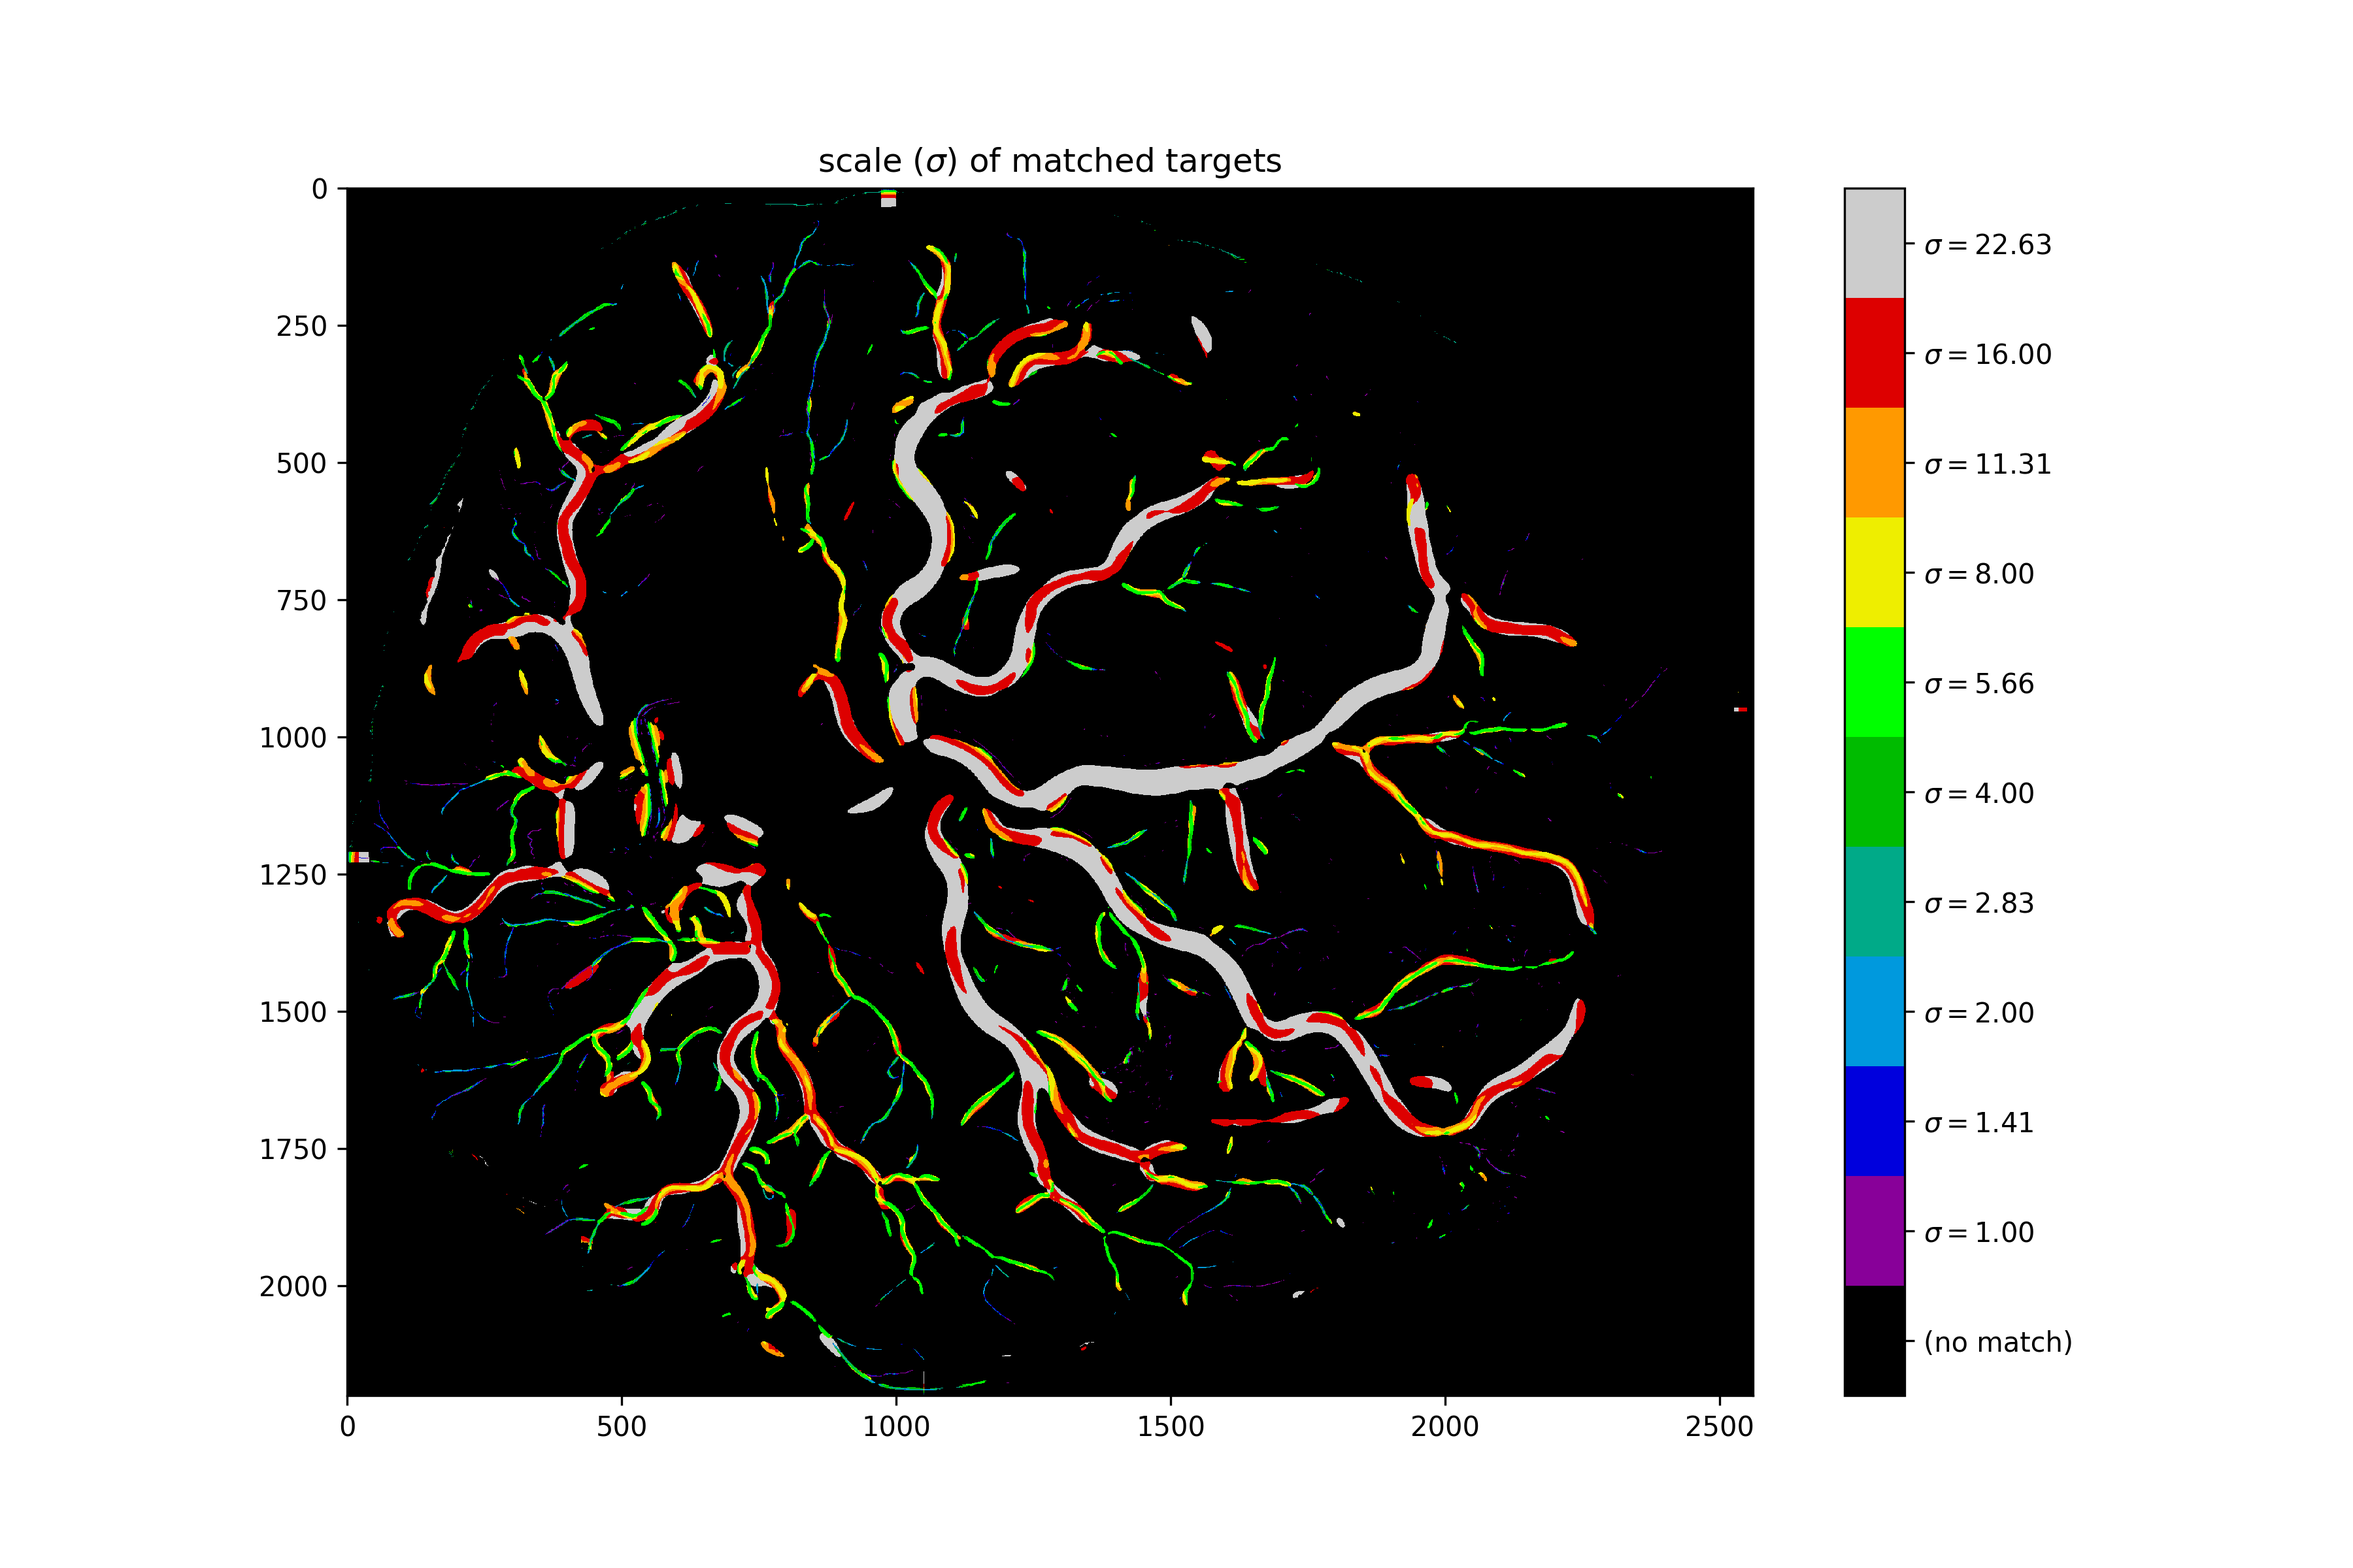
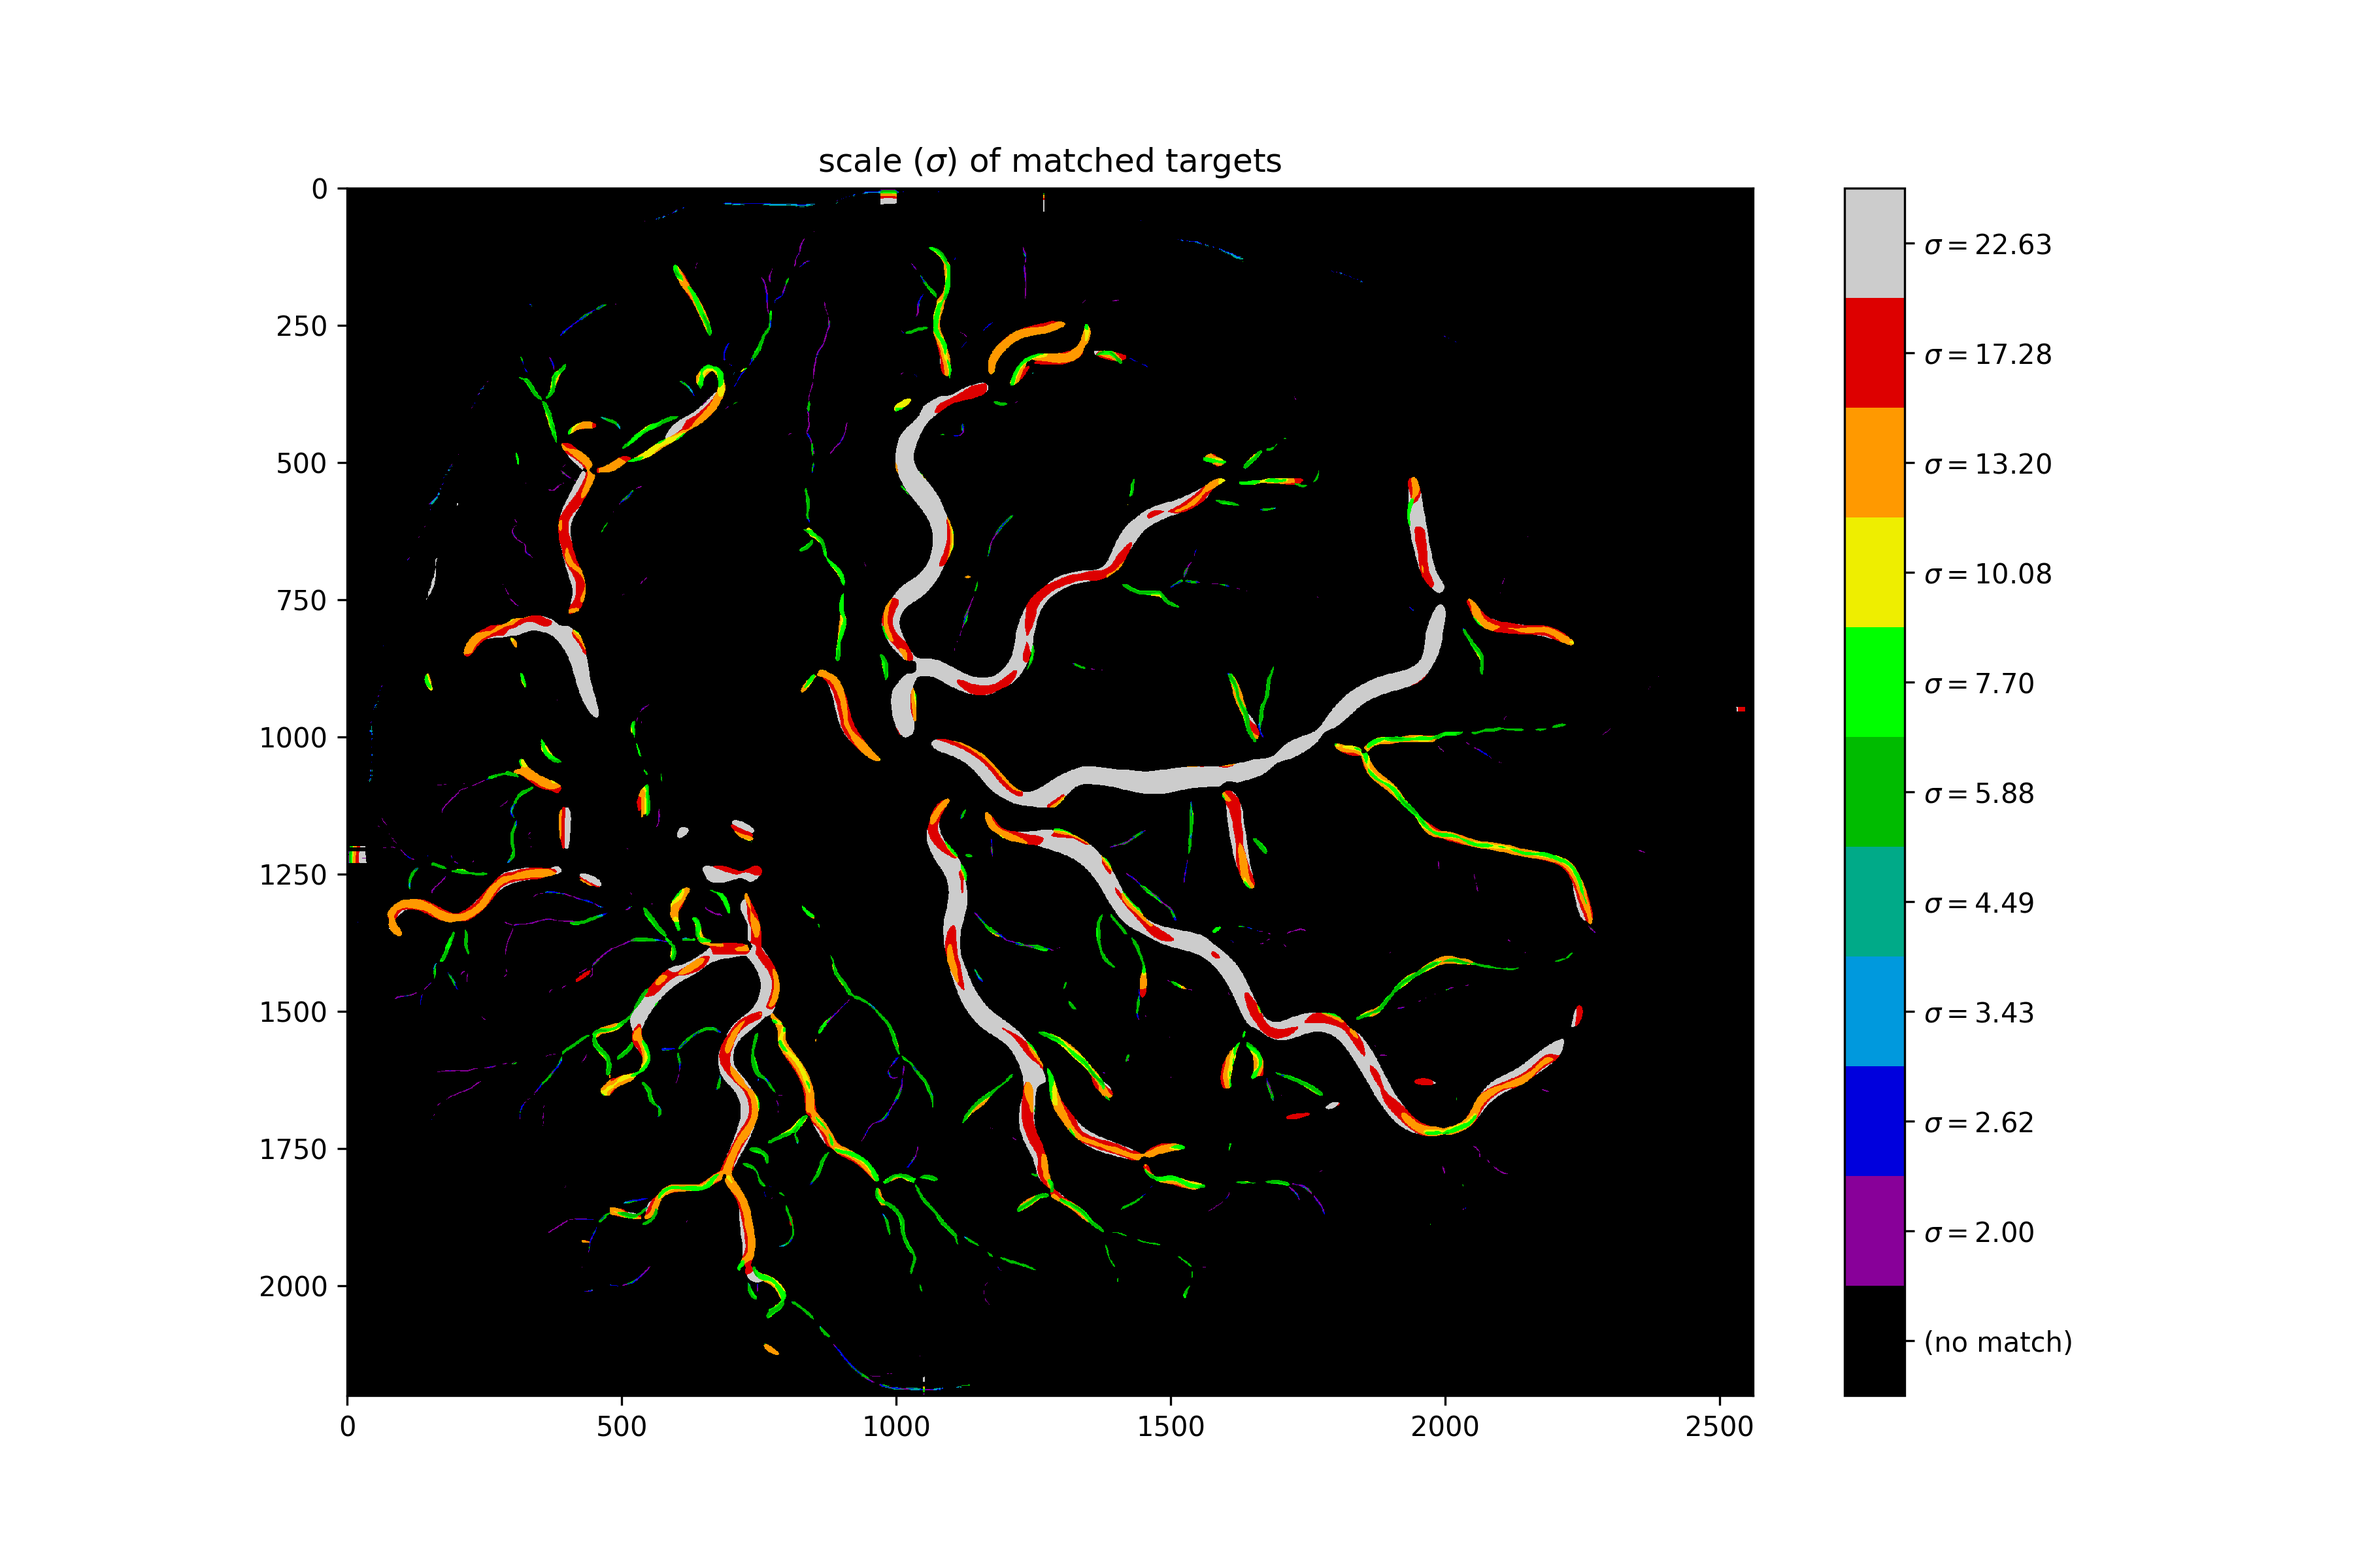
separate plate morphology logic; cleanup

diff --git a/pcsvn.py b/pcsvn.py
@@ -4,14 +4,16 @@ from get_placenta import get_named_placenta
 from hfft import fft_hessian
 from diffgeo import principal_curvatures, principal_directions
 from frangi import get_frangi_targets
-from vessel_filters import rotating_box_filter
+# from vessel_filters import rotating_box_filter
 import numpy as np
 import numpy.ma as ma
-import pickle
+# import pickle
 
-from skimage.morphology import label, skeletonize, disk, binary_erosion, convex_hull_image, binary_dilation
+from skimage.morphology import label, skeletonize, disk
+from skimage.morphology import binary_erosion, convex_hull_image, binary_dilation
 from skimage.segmentation import find_boundaries
 
+from plate_morphology import dilate_boundary, erode_plate
 
 def make_multiscale(img, scales, betas, gammas, find_principal_directions=False,
                     dark_bg=True, VERBOSE=True, trim_first=False):
@@ -38,9 +40,8 @@ def make_multiscale(img, scales, betas, gammas, find_principal_directions=False,
             radius = 5
         else:
             radius = int(sigma*2.5) # a little conservative
-        collar = dilate_plate(img, radius=radius, plate_mask=img.mask)
 
-        collar = collar.mask
+
         if VERBOSE:
             print('σ={}'.format(sigma))
             print('finding hessian')
@@ -51,7 +52,11 @@ def make_multiscale(img, scales, betas, gammas, find_principal_directions=False,
         if VERBOSE:
             print('finding principal curvatures')
 
+
         k1, k2 = principal_curvatures(img, sigma=sigma, H=hesh)
+
+        # area of influence to zero out
+        collar = dilate_boundary(None, radius=radius, mask=img.mask)
 
         k1[collar] = 0
         k2[collar] = 0
@@ -140,73 +145,7 @@ def match_on_skeleton(skeleton_of, layers, VERBOSE=True):
 
     return matched_all
 
-def erode_plate(img, erosion_radius=20, plate_mask=None):
-    """Manually remove (erode) a region around the plate
-    This doesn't work well and runs way too long for the simplicity
-    of the task (brew your own erode convex image instead).
-    You need to self-supply radius."""
 
-    if plate_mask is None:
-        # grab the mask from input image
-        try:
-            plate_mask = img.mask
-        except AttributeError:
-            raise('Need to supply mask information')
-
-    # convex_hull_image finds white pixels
-    plate_mask = np.invert(plate_mask)
-
-    # find convex hull of mask (make erosion calculation easier)
-    plate_mask = np.invert(convex_hull_image(plate_mask))
-
-    # this is much faster than a disk. a plus sign might be better even.
-    #selem = square(erosion_radius)
-    # also this correctly has erosion radius as the RADIUS!
-    # input for square() and disk() is the diameter!
-    selem = np.zeros((erosion_radius*2 + 1, erosion_radius*2 + 1),
-                        dtype='bool')
-    selem[erosion_radius,:] = 1
-    selem[:,erosion_radius] = 1
-    eroded_mask = binary_erosion(plate_mask, selem=selem)
-
-    # this is by default additive with whatever
-    return ma.masked_array(img, mask=eroded_mask)
-
-def dilate_plate(img, radius=10, plate_mask=None):
-    """
-    grows the mask by a specified radius
-    can this return a masked image rather than return a new one
-    to be more memory efficient? or should this just return a
-    mask to be applied?
-    """
-
-    if plate_mask is None:
-        # grab the mask from input image
-        try:
-            plate_mask = img.mask
-        except AttributeError:
-            raise('Need to supply mask information')
-
-    perimeter = find_boundaries(plate_mask)
-
-    # this is extremely inefficient. can it just convolve around
-    # the loop and skip convolving areas where everything is 0?
-    # maskpad = binary_dilation(perimeter, selem=disk(radius))
-
-    # THIS IS WAY BETTER!
-    maskpad = np.zeros_like(perimeter)
-
-    M,N = maskpad.shape
-    for i,j in np.argwhere(perimeter):
-        # just make a cross shape on each of those points
-        # these will silently fail if slice is OOB
-        maskpad[max(i-radius,0):min(i+radius,M),j] = 1
-        maskpad[i,max(j-radius,0):min(j+radius,N)] = 1
-
-    new_mask = np.bitwise_or(maskpad, plate_mask)
-    # this is by default additive with whatever mask img already has
-    # unless it's not...?
-    return ma.masked_array(img, mask=new_mask)
 #################################################################
 #### MAIN LOOP ##################################################
 #################################################################
@@ -215,11 +154,12 @@ def dilate_plate(img, radius=10, plate_mask=None):
 ###Static Parameters############################
 
 # main vesselness threshold
-alpha = 0.08
+
+alpha = 0.3
 
 ###Set base image#############################
 
-#filename = 'barium1.png'; DARK_BG = True
+filename = 'barium1.png'; DARK_BG = True
 #filename = 'barium2.png'; DARK_BG = True
 #filename = 'NYMH_ID130016i.png'; DARK_BG = True
 #filename = 'NYMH_ID130016u.png'; DARK_BG = False
@@ -276,7 +216,7 @@ multiscale = make_multiscale(img, scales, betas, gammas,
 # Process Multiscale Targets
 
 # fix targets misreported on edge of plate
-
+# wait are we doing this twice?
 if not EARLY_TRIM:
     print('trimming collars of plates (per scale)')
 
@@ -285,7 +225,7 @@ if not EARLY_TRIM:
         # twice the buffer (be conservative!)
         radius = int(multiscale[i]['sigma']*2)
         print('dilating plate for radius={}'.format(radius))
-        f = dilate_plate(f, radius=radius, plate_mask=img.mask)
+        f = dilate_boundary(f, radius=radius, mask=img.mask)
         multiscale[i]['F'] = f.filled(0)
 
 

diff --git a/plate_morphology.py b/plate_morphology.py
@@ -1,0 +1,91 @@
+#!/usr/bin/env python3
+
+from skimage.morphology import disk, binary_erosion, binary_dilation
+from skimage.morphology import convex_hull_image
+from skimage.segmentation import find_boundaries
+
+import numpy as np
+import numpy.ma as ma
+
+def erode_plate(img, erosion_radius=20, plate_mask=None):
+    """
+    Manually remove (erode) the outside boundary of a plate.
+    The goal is remove any influence of the zeroed background
+    on reporting derivative information
+
+    NOTE: this is an old deprecated function. use dilate boundary instead.
+    """
+    if plate_mask is None:
+        # grab the mask from input image
+        try:
+            plate_mask = img.mask
+        except AttributeError:
+            raise('Need to supply mask information')
+
+    # convex_hull_image finds white pixels
+    plate_mask = np.invert(plate_mask)
+
+    # find convex hull of mask (make erosion calculation easier)
+    plate_mask = np.invert(convex_hull_image(plate_mask))
+
+    # this is much faster than a disk. a plus sign might be better even.
+    #selem = square(erosion_radius)
+    # also this correctly has erosion radius as the RADIUS!
+    # input for square() and disk() is the diameter!
+    selem = np.zeros((erosion_radius*2 + 1, erosion_radius*2 + 1),
+                        dtype='bool')
+    selem[erosion_radius,:] = 1
+    selem[:,erosion_radius] = 1
+    eroded_mask = binary_erosion(plate_mask, selem=selem)
+
+    # this is by default additive with whatever
+    return ma.masked_array(img, mask=eroded_mask)
+
+def dilate_boundary(img, radius=10, mask=None):
+    """
+    grows the mask by a specified radius of a masked 2D array
+    Manually remove (erode) the outside boundary of a plate.
+    The goal is remove any influence of the zeroed background
+    on reporting derivative information.
+
+    There is varying functionality here (maybe should be multiple functions
+    instead?)
+
+    If img is a masked array and mask=None, the mask will be dilated and a
+    masked array is outputted.
+
+    If img is any 2D array (masked or unmasked), if mask is specified, then
+    the mask will be dilated and the original image will be returned as a
+    masked array with a new mask.
+
+    If the img is None, then the specified mask will be dilated and returned
+    as a regular 2D array.
+
+    """
+
+    if mask is None:
+        # grab the mask from input image
+        # if img is None this will break too but not handled
+        try:
+            mask = img.mask
+        except AttributeError:
+            raise('Need to supply mask information')
+
+    perimeter = find_boundaries(mask, mode='inner')
+
+    maskpad = np.zeros_like(perimeter)
+
+    M,N = maskpad.shape
+    for i,j in np.argwhere(perimeter):
+        # just make a cross shape on each of those points
+        # these will silently fail if slice is OOB thus ranges are limited.
+        maskpad[max(i-radius,0):min(i+radius,M),j] = 1
+        maskpad[i,max(j-radius,0):min(j+radius,N)] = 1
+
+    new_mask = np.bitwise_or(maskpad, mask)
+
+    if img is None:
+        return new_mask # return a 2D array
+    else:
+        # replace the original mask or create a new masked array
+        return ma.masked_array(img, mask=new_mask)
